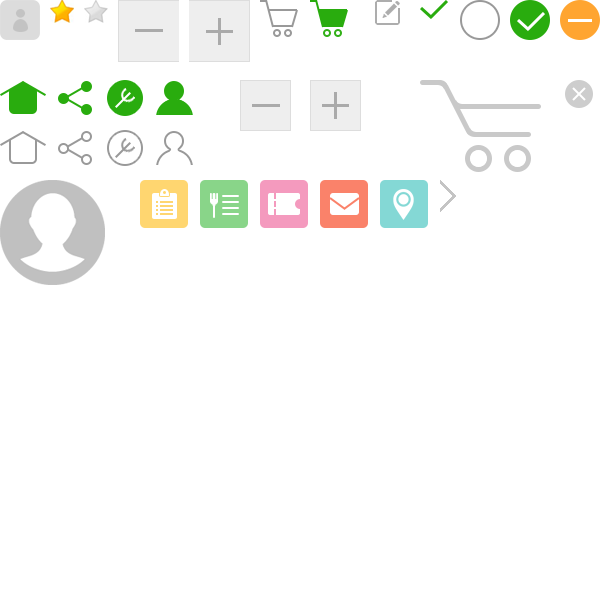
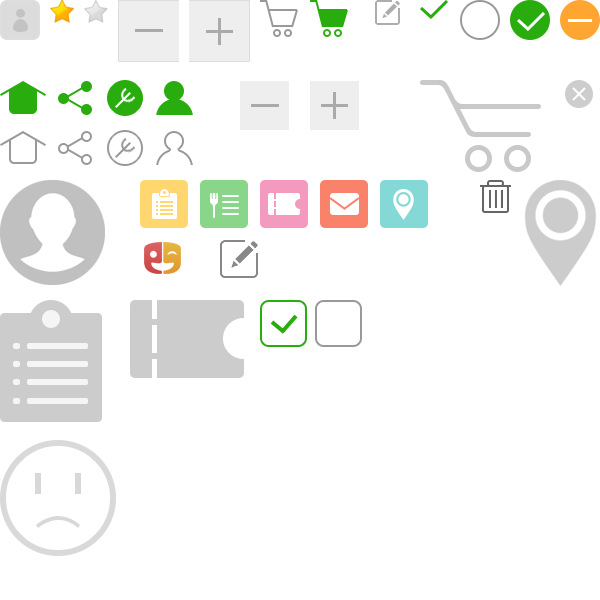
show local no-network image when network is not available

diff --git a/angular/common/module.services.js b/angular/common/module.services.js
@@ -3,7 +3,7 @@
 
   angular
   .module('module.services', ['LocalForageModule'])
-  .value('config', {fakeData: true, developmentMode: false, timeout: 2500, app: {client_id: 'NTQ5NTE5MGViMTgzMDUw', name: 'ailegong', version: '0.9.1', hotline: '010-56245991', bizline: '189-1191-1240'}, server: {address: 'http://www.tongshijia.com'}})
+  .value('config', {fakeData: false, developmentMode: false, timeout: 2500, app: {client_id: 'NTQ5NTE5MGViMTgzMDUw', name: 'ailegong', version: '0.9.1', hotline: '010-56245991', bizline: '189-1191-1240'}, server: {address: 'http://www.tongshijia.com'}})
   .service('Base', Base)
   /* @ngInject */
   function Base($http, $q, $log, $localForage, $window, $timeout, config, FakeData){
@@ -22,11 +22,11 @@
     }
 
     function get(url){
-      var defer = $q.defer();
-      $timeout(function(){
-        defer.reject('');
-      }, 1000);
-      return defer.promise;
+      // var defer = $q.defer();
+      // $timeout(function(){
+      //   defer.reject('');
+      // }, 1000);
+      // return defer.promise;
       if(config.fakeData){
         $log.log(url).log(FakeData.get(url));
         return deferred(FakeData.get(url));

diff --git a/angular/home/templates/home.main.html b/angular/home/templates/home.main.html
@@ -3,9 +3,10 @@
   <ion-content class="home" ng-click="vm.doRefresh()">
     <div class="centered-container" ng-show="vm.loadingFailed" ng-cloak>
       <span class="no-content no-network">
+        <img src="img/no-network.png">
       </span>
       <span class="message text-grey" ng-show="vm.loading">
-        正在连接，请稍后...
+        正在连接，请稍候...
       </span>
       <span class="message text-grey" ng-show="!vm.loading">
        网络连接不可用，请点击重试

diff --git a/scss/basics.scss b/scss/basics.scss
@@ -624,9 +624,9 @@ ion-option-button.button{
   }
   .no-content.no-network{
     margin-top: 40%;
-    background-position: 0.5rem -20.5rem;
-    width: 6.5rem;
-    height: 6.5em;
+    background-position: 0rem -20.9523809524rem;
+    width: 5.52380952381rem;
+    height: 5.52380952381em;
   }  
 }
 

diff --git a/scss/home-main.scss b/scss/home-main.scss
@@ -35,6 +35,12 @@
       padding-top: 0;
     }
   }
+  .no-network{
+    img{
+      height: 100%;
+      width: 100%;
+    }
+  }
 }
 .pane .bg-image{
   position: absolute;
